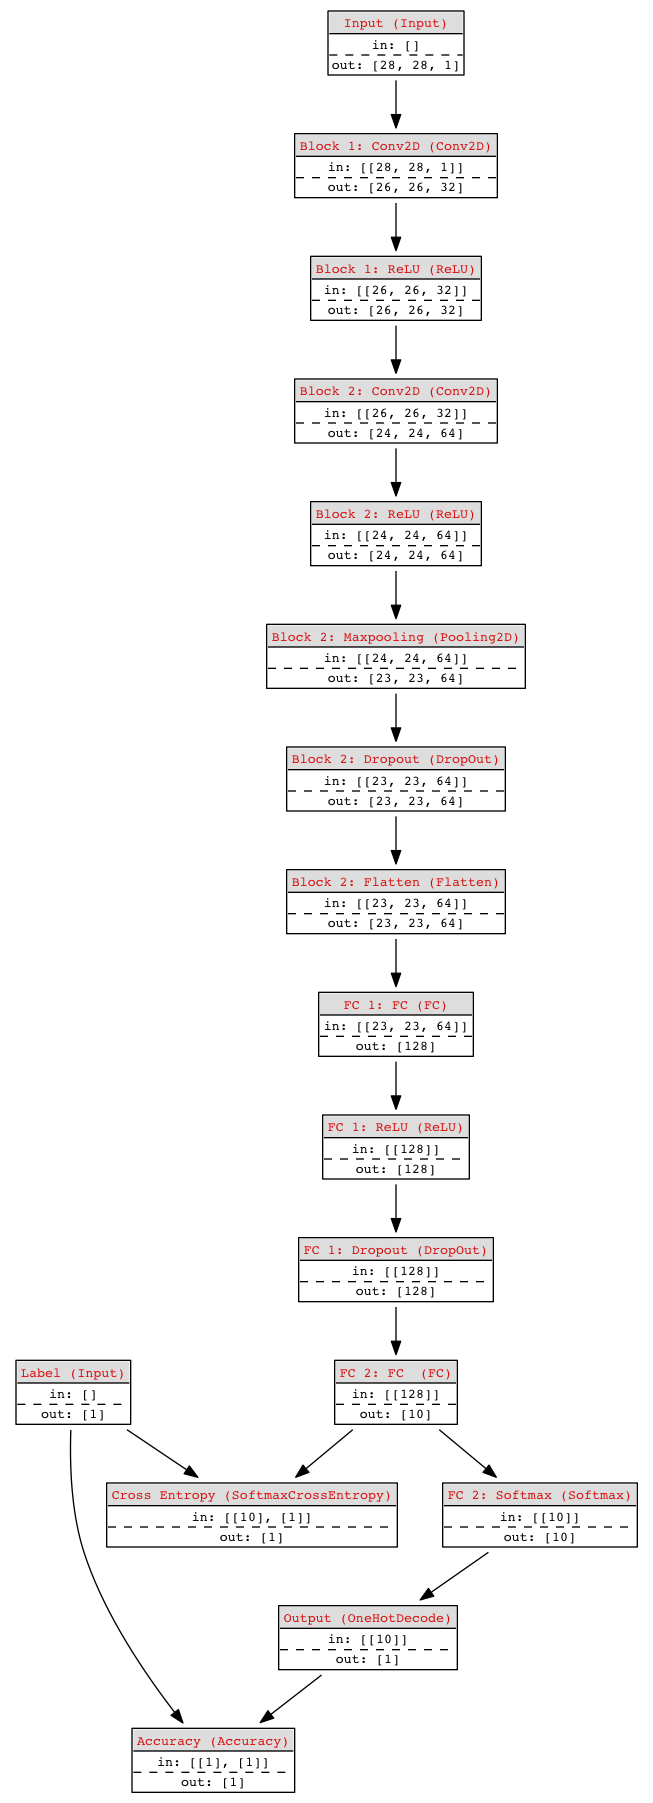
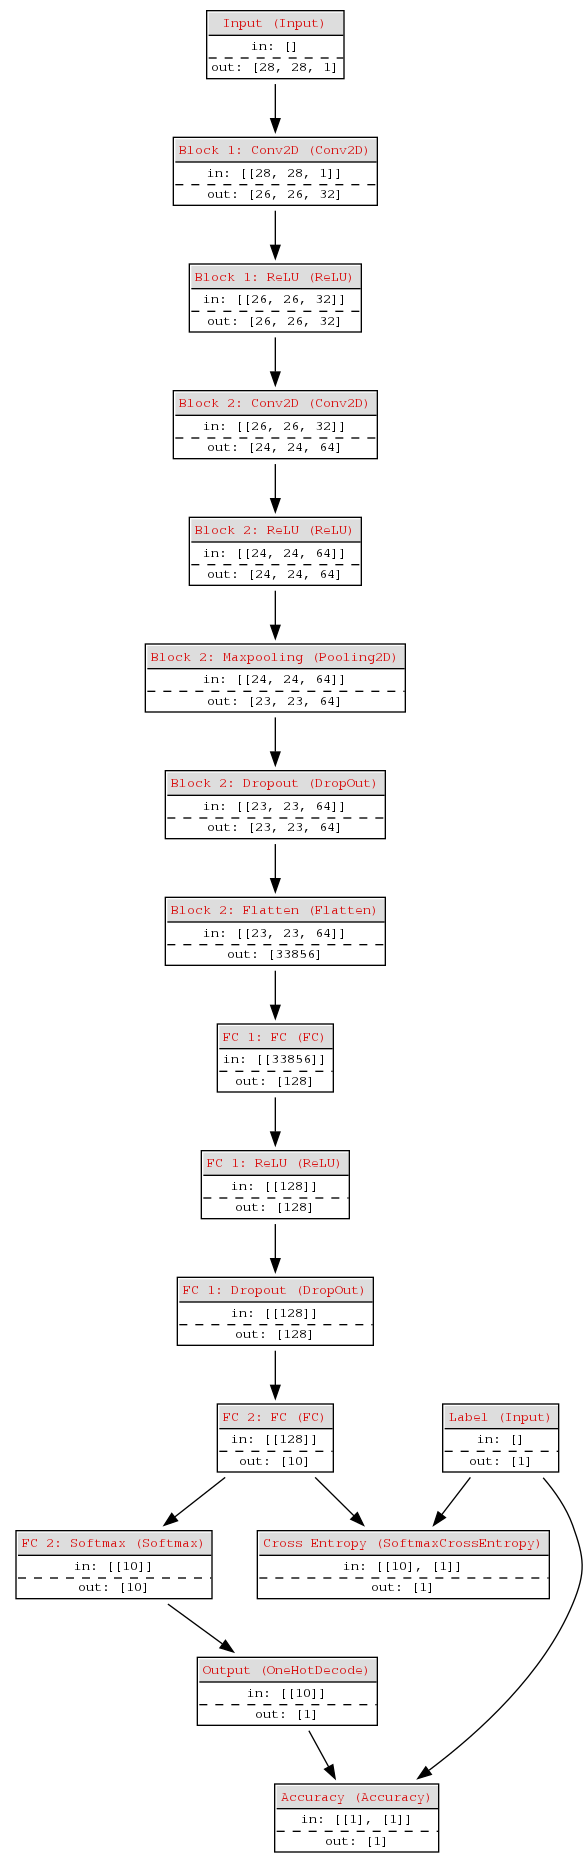
Añadidas correcciones en los inicializadores

Changed region(s): [[0.0, 0.0, 1.0, 1.0]]

diff --git a/scratchnetwork/examples/example_4/train.py b/scratchnetwork/examples/example_4/train.py
@@ -19,7 +19,7 @@ from scratchnetwork.metrics import Accuracy
 from scratchnetwork.optimizers import SGD
 from scratchnetwork.regularizators import L1 as LR1C
 from scratchnetwork.layers import OneHotDecode
-LR1 = LR1C(0.0005)
+LR1 = LR1C(0.01)
 
 
 # MNIST LOAD
@@ -30,67 +30,33 @@ images_train, labels_train = np.reshape(np.array(images_train), [-1, 28, 28]), n
 
 images_train = (np.array(np.expand_dims(images_train, axis=-1), dtype=np.float64) - 128)/128
 labels_train = np.array(labels_train, dtype=np.int32).reshape(-1, 1)
-#labels_train = np.array([[float(m == b) for m in range(10)] for b in labels_train], dtype=np.float64)
 
 # Network
 net = Network()
 inputX = net.Node("Input", Input, [28, 28, 1])
 inputY = net.Node("Label", Input, [1])
 
-B1 = net.Node("Block 1: Conv2D", Conv2D, num_filters=32, kernel_size=(3,3), params={'regularizator': LR1})
-B1relu = net.Node("Block 1: ReLU", ReLU)
+o = net.Node("Block 1: Conv2D", Conv2D, num_filters=32, kernel_size=(3,3), params={'regularizator': LR1})(inputX)
+o = net.Node("Block 1: ReLU", ReLU)(o)
 
-B2 = net.Node("Block 2: Conv2D", Conv2D, num_filters=64, kernel_size=(3,3), params={'regularizator': LR1})
-B2relu = net.Node("Block 2: ReLU", ReLU)
-B2max = net.Node("Block 2: Maxpooling", Pooling2D, "max", pool_size=(2, 2))
-B2drop = net.Node("Block 2: Dropout", DropOut, 0.25)
-B2flatten = net.Node("Block 2: Flatten", Flatten)
+o = net.Node("Block 2: Conv2D", Conv2D, num_filters=64, kernel_size=(3,3), params={'regularizator': LR1})(o)
+o = net.Node("Block 2: ReLU", ReLU)(o)
+o = net.Node("Block 2: Maxpooling", Pooling2D, "max", pool_size=(2, 2))(o)
+o = net.Node("Block 2: Dropout", DropOut, 0.25)(o)
+o = net.Node("Block 2: Flatten", Flatten)(o)
 
-FC1 = net.Node("FC 1: FC", FC, 128, params={'regularizator': LR1})
-FC1relu = net.Node("FC 1: ReLU", ReLU)
-FC1drop = net.Node("FC 1: Dropout", DropOut, 0.5)
+o = net.Node("FC 1: FC", FC, 128, params={'regularizator': LR1})(o)
+o = net.Node("FC 1: ReLU", ReLU)(o)
+o = net.Node("FC 1: Dropout", DropOut, 0.5)(o)
 
-FC2 = net.Node("FC 2: FC ", FC, 10, params={'regularizator': LR1})
-FC2softmax = net.Node("FC 2: Softmax", Softmax)
-output = net.Node("Output", OneHotDecode)
+FC2 = net.Node("FC 2: FC", FC, 10, params={'regularizator': LR1})(o)
+FC2softmax = net.Node("FC 2: Softmax", Softmax)(FC2)
+output = net.Node("Output", OneHotDecode)(FC2softmax)
 
-L1 = net.Node("Cross Entropy", SoftmaxCrossEntropy)
-M1 = net.Node("Accuracy", Accuracy)
+L1 = net.Node("Cross Entropy", SoftmaxCrossEntropy)(FC2, inputY)
+M1 = net.Node("Accuracy", Accuracy)(output, inputY)
 
-inputX.addNext(B1)
-
-B1.addNext(B1relu)
-B1relu.addNext(B2)
-
-B2.addNext(B2relu)
-B2relu.addNext(B2max)
-B2max.addNext(B2drop)
-B2drop.addNext(B2flatten)
-B2flatten.addNext(FC1)
-
-FC1.addNext(FC1relu)
-FC1relu.addNext(FC1drop)
-FC1drop.addNext(FC2)
-
-FC2.addNext(FC2softmax)
-FC2softmax.addNext(output)
-
-"""FC2.addNext(FC2softmax)
-
-L1.addPrev(FC2softmax)
-L1.addPrev(inputY)
-
-M1.addPrev(FC2softmax)
-M1.addPrev(inputY)
-"""
-
-L1.addPrev(FC2)
-L1.addPrev(inputY)
-
-M1.addPrev(output)
-M1.addPrev(inputY)
-
-net.compile(losses=[L1], metrics=[M1], optimizer=SGD(lr=1e-2, clip=None))
+net.compile(losses=[L1], metrics=[M1], optimizer=SGD(lr=1e-2, clip_norm=None))
 net.start(inputs=[inputX], outputs=[output])
 net.plot(os.path.basename(sys.argv[0]).split(".")[0]+".png")
 
@@ -99,10 +65,9 @@ batch_index = 0
 batch_size = 128
 epoch = 0
 
-for i in range(3):
+for i in range(10000):
 	Xaux = images_train[batch_index:(batch_index + batch_size)]
 	Yaux = labels_train[batch_index:(batch_index + batch_size)]
-
 	t = time.time()
 	net.train_batch({'Input': Xaux}, {'Label': Yaux})
 	batch_index += batch_size
@@ -113,6 +78,6 @@ for i in range(3):
 	net.monitoring()
 	print(str(batch_index) + "/" + str(epoch))
 	print('-----'+ str(time.time() - t) +'------')
+	
 
-
-#print(net.save("example.h5"))
+print(net.save("example.h5"))

diff --git a/scratchnetwork/backend/initializer.py b/scratchnetwork/backend/initializer.py
@@ -76,13 +76,11 @@ class Initializer(object):
 			elif len(self.args) == 2:
 				return np.random.randn(*shape)*self.args[1] + self.args[0]
 
-		elif self.name == 'xavier':
+		elif self.name == 'he':
 			if len(self.args) == 0 or (len(self.args) == 1 and self.args[0] == 'uniform'):
-				return compute_distribution(shape, distribution=Initializer.UNIFORM, mode=Initializer.FAN_AVG, scale=2.0)
+				return compute_distribution(shape, distribution=Initializer.UNIFORM, mode=Initializer.FAN_IN, scale=2.0)
 			elif len(self.args) == 1 and self.args[0] == 'normal':
-				return compute_distribution(shape, distribution=Initializer.NORMAL, mode=Initializer.FAN_AVG, scale=2.0)
-
-
+				return compute_distribution(shape, distribution=Initializer.NORMAL, mode=Initializer.FAN_IN, scale=2.0)
 
 		elif self.name == 'lecun':
 			if len(self.args) == 0 or (len(self.args) == 1 and self.args[0] == 'uniform'):
